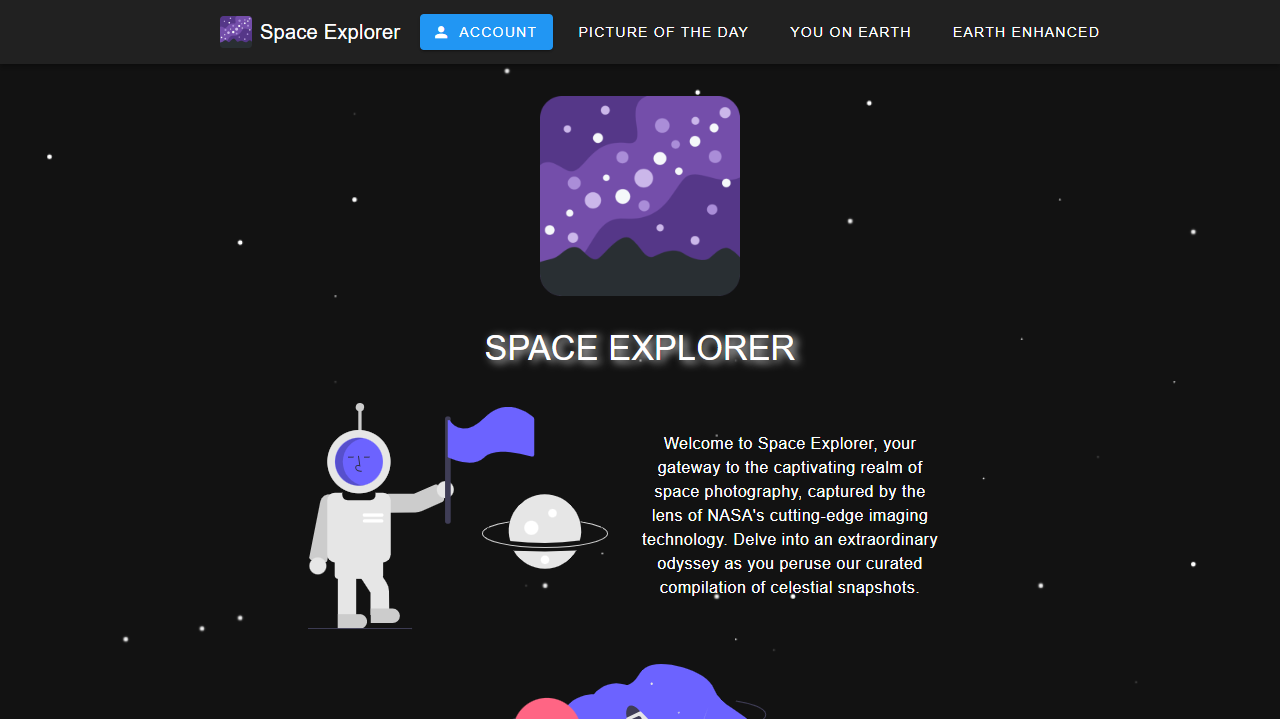
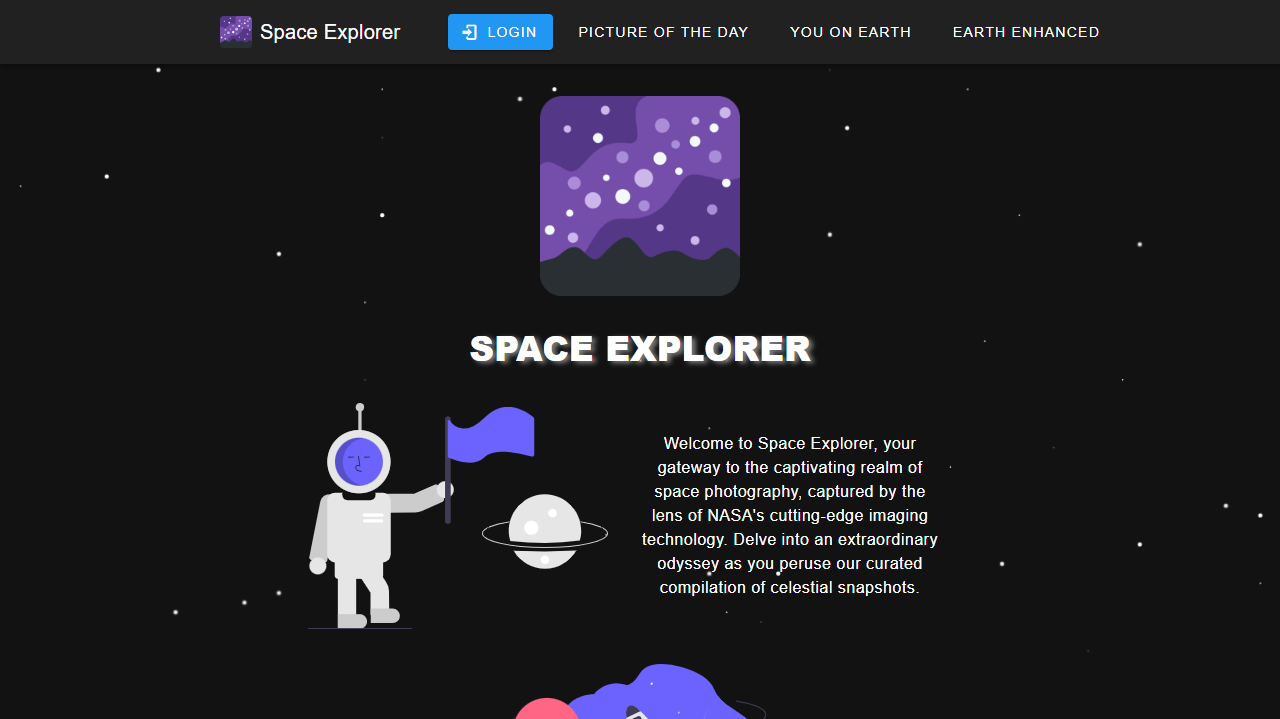
Improve home title text

Changed region(s): [[0.3438, 0.459, 0.6562, 0.5202], [0.3125, 0.0, 0.4375, 0.0918]]

diff --git a/web/src/views/Home.vue b/web/src/views/Home.vue
@@ -12,7 +12,7 @@ const display = useDisplay();
 
     <VImg src="/android-chrome-512x512.png" class="mx-auto my-8" maxWidth="200" />
 
-    <h1 class="text-h4 text-center" style="text-shadow: 4px 2px 8px #fff;">
+    <h1 class="text-center text-h4 header">
       SPACE EXPLORER
     </h1>
 
@@ -51,3 +51,10 @@ const display = useDisplay();
 
   </VSheet>
 </template>
+
+<style scoped>
+.header {
+  font-weight: 800;
+  text-shadow: 4px 2px 5px gray;
+}
+</style>
